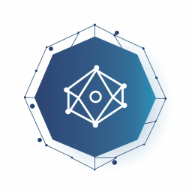
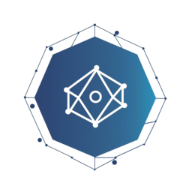
WIP

Changed region(s): [[0.5312, 0.3438, 0.875, 0.8125]]

diff --git a/components/ui/dashboard.tsx b/components/ui/dashboard.tsx
@@ -10,7 +10,7 @@ import { EMAIL_VALIDATION } from '@/config';
 const Dashboard = () => {
   const [user, setUser] = useState({
     email: '',
-    apiKey: '',
+    apiKeyValue: '',
     tier: '',
     requestCount: 0,
     requestLimit: 0,
@@ -19,7 +19,6 @@ const Dashboard = () => {
     firstName: '',     // Add firstName to user state
     lastName: '',      // Add lastName to user state
     username: '',      // Add username to user state
-    serverProvisioned: false, // Add serverProvisioning to user state
   });
 
   const [loading, setLoading] = useState(true);
@@ -61,12 +60,12 @@ const Dashboard = () => {
 
       if (res.status === 200) {
         const newUser = res.data;
-
+        console.log(newUser);
         setUser((prevUser) => {
           // Check if there are changes in the user data
           const hasChanges = 
             prevUser.email !== newUser.email ||
-            prevUser.apiKey !== newUser.apiKey ||
+            prevUser.apiKeyValue !== newUser.apiKeyValue ||
             prevUser.tier !== newUser.tier ||
             prevUser.requestCount !== newUser.requestCount ||
             prevUser.requestLimit !== newUser.requestLimit ||
@@ -74,8 +73,7 @@ const Dashboard = () => {
             prevUser.referralPoints !== newUser.referralPoints ||
             prevUser.firstName !== newUser.firstName ||
             prevUser.lastName !== newUser.lastName ||
-            prevUser.username !== newUser.username ||
-            prevUser.serverProvisioned !== newUser.serverProvisioned;
+            prevUser.username !== newUser.username;
   
             // Only return newUser if changes are detected, otherwise keep the old state
             return hasChanges ? newUser : prevUser;
@@ -101,7 +99,7 @@ const Dashboard = () => {
 
   // Copy API key to clipboard
   const handleCopyApiKey = () => {
-    navigator.clipboard.writeText(user.apiKey).then(
+    navigator.clipboard.writeText(user.apiKeyValue).then(
       () => setCopySuccess('API key copied!'),
       () => setCopySuccess('Failed to copy API key')
     );
@@ -328,13 +326,6 @@ const Dashboard = () => {
   return (
     <div className="space-y-6 p-6 bg-white rounded shadow-md max-w-4xl mx-auto mt-10">
       <h1 className="text-2xl font-bold mb-4 text-center">User Dashboard</h1>
-      
-      {user.tier !== 'Free' && user.serverProvisioned &&  (
-      <div className="flex items-center space-x-4 mb-6">
-        <div className="animate-spin rounded-full h-8 w-8 border-t-4 border-b-4 border-blue-500"></div>
-        <p>Provisioning your server... Please wait.</p>
-      </div>
-    )}
 
 
       <div className="grid grid-cols-1 sm:grid-cols-2 gap-4">
@@ -384,7 +375,7 @@ const Dashboard = () => {
 
         <div>
           <label className="block text-sm font-medium mb-1">API Key:</label>
-          <div className="form-input py-2 w-full truncate">{apiKeyVisible ? user.apiKey : '••••••••••••••••'}</div>
+          <div className="form-input py-2 w-full truncate">{apiKeyVisible ? user.apiKeyValue : '••••••••••••••••'}</div>
           <div className="flex space-x-2 mt-1">
             <button
               className="btn-sm text-sm text-blue-600 hover:underline"

diff --git a/components/faqs.tsx b/components/faqs.tsx
@@ -21,10 +21,10 @@ export default function Faqs() {
               To get started, create an account, choose a subscription plan that suits your needs, and use your API key to access historical blockchain data. We also offer a free tier for basic usage.
             </Accordion>
             <Accordion title="What blockchains do you support?">
-              Currently, Histori supports Ethereum and other EVM-compatible chains, but we are continuously expanding support to other blockchains based on demand.
+              Currently, Histori supports only Ethereum, but we are continuously expanding support to other blockchains based on demand.
             </Accordion>
             <Accordion title="Can I upgrade or downgrade at any time?" active>
-              Yes, you can easily upgrade or downgrade your subscription at any time. Your new plan will take effect immediately, and any changes will be reflected in your account.
+              Yes, you can easily upgrade or downgrade your subscription at any time. Your upgrade will take effect immediately, and any changes will be reflected in your account.
             </Accordion>
             <Accordion title="Do you offer custom plans for enterprises?">
               Yes, we offer custom plans for businesses with high data requirements. Contact us for more information about tailored solutions and pricing.
@@ -35,9 +35,9 @@ export default function Faqs() {
             <Accordion title="How does Histori handle API rate limits?">
               API rate limits are based on your subscription tier. Each plan offers different request limits per month, and if you exceed your limit, you can upgrade your plan or wait for the next billing cycle.
             </Accordion>
-            <Accordion title="Can I request a refund?">
+            {/* <Accordion title="Can I request a refund?">
               We offer refunds in case of billing issues or accidental charges. Please review our refund policy or contact support if you have concerns.
-            </Accordion>
+            </Accordion> */}
             <span className="block border-t border-gray-200" aria-hidden="true"></span>
           </ul>
 

diff --git a/components/ui/logo.tsx b/components/ui/logo.tsx
@@ -3,9 +3,13 @@ import Link from 'next/link'
 export default function Logo() {
   return (
     <Link href="/" className="block text-blue-600 transition duration-150 ease-in-out" aria-label="Histori">
-      <svg className="w-8 h-8 fill-current" viewBox="0 0 32 32" xmlns="http://www.w3.org/2000/svg">
+      {/* <svg className="w-8 h-8 fill-current" viewBox="0 0 32 32" xmlns="http://www.w3.org/2000/svg">
         <path d="M15.25 4.116c.039.899-.51.468-.79.629-.894.524-1.491 2.04-2.612 2.125-.423.87-1.121.898-1.874 1.503-.327.256-.463.839-.756 1.097l-3.694 3.27a2.395 2.395 0 0 1-.44.314c-.378.219-.656.717-1.096.81-.475.106-1.601-.775-2.633-2.012-.825-1.587-.025-1.924.518-2.525.916-1.022 2.48-2.064 3.585-2.753.843-.537 1.677-1.13 2.59-1.482.935-.357 1.779-.842 2.738-1.041.7-.141 1.522.063 2.206 0a9.596 9.596 0 0 1 2.258.065M30.676 3.646c-.06 1.046-1.038.955-1.593 1.363C27.32 6.31 25.8 8.656 23.63 9.583c-1.07 1.412-2.411 1.952-4.056 3.254-.711.56-1.21 1.417-1.877 1.965-2.887 2.381-5.668 4.524-8.64 6.823-.303.236-.646.468-1.008.697-.834.528-1.675 1.394-2.543 1.77-.95.413-2.376-.279-3.375-1.544-.43-1.849 1.112-2.657 2.38-3.737 2.13-1.82 5.33-4.012 7.558-5.536 1.707-1.17 3.395-2.426 5.138-3.43 1.789-1.03 3.439-2.179 5.224-3.063 1.303-.643 2.758-.96 4.038-1.53a40.762 40.762 0 0 1 4.207-1.606M30.386 14.346c.229.918-.566.8-.896 1.136-1.048 1.058-1.721 3.056-3.254 3.7-.563 1.17-1.522 1.532-2.603 2.507-.464.426-.731 1.128-1.177 1.542-1.94 1.77-3.91 3.263-6.082 4.772a6.36 6.36 0 0 1-.748.43c-.618.313-1.24.914-1.901 1.065-.731.161-1.856-.807-2.662-2.199-.401-1.784.715-2.129 1.6-2.818 1.49-1.15 3.693-2.49 5.192-3.486 1.154-.755 2.247-1.633 3.417-2.292 1.2-.68 2.244-1.52 3.44-2.128.868-.448 1.927-.61 2.79-1.029.92-.447 1.873-.85 2.884-1.2" />
-      </svg>
+      </svg> */}
+      
+      <span className="w-8 h-8 fill-current">
+        <img src="favicon-32x32.png" alt="Histori logo" />
+      </span>
     </Link>
   )
 }

diff --git a/components/features-table.tsx b/components/features-table.tsx
@@ -118,7 +118,7 @@ export default function FeaturesTable() {
 
           {/* CTA */}
           <div className="text-center">
-            <Link className="btn text-white bg-blue-600 hover:bg-blue-700 group" href="/sign-up">
+            <Link className="btn text-white bg-blue-600 hover:bg-blue-700 group" href="/signin">
               Sign Up for Free Trial <span className="tracking-normal text-blue-300 group-hover:translate-x-0.5 transition-transform duration-150 ease-in-out ml-1">-&gt;</span>
             </Link>
           </div>
